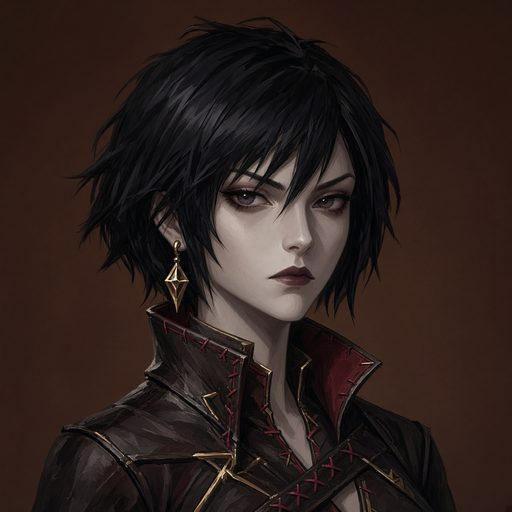
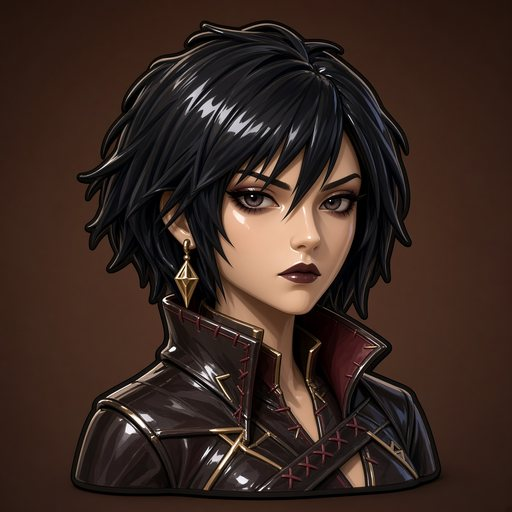
Cartoon hero portraits and glossy monster HP bar

Changed region(s): [[0.0625, 0.0312, 0.9062, 1.0]]

diff --git a/src/components/game-app.tsx b/src/components/game-app.tsx
@@ -514,29 +514,38 @@ function Battle() {
           <Ghost className="size-3 text-soul" />
           {(snap.floor % 10) || 10} / 10
         </p>
-        <div className="h-2.5 w-44 overflow-hidden rounded-full border border-gold/40 bg-bg/80">
-          <div
-            className={cn(
-              "h-full",
-              snap.monsterHp / Math.max(1, snap.monsterMax) > 0.5
-                ? "bg-hp"
-                : snap.monsterHp / Math.max(1, snap.monsterMax) > 0.2
-                  ? "bg-gold"
-                  : "bg-danger",
-            )}
-            style={{ width: `${Math.max(2, (snap.monsterHp / Math.max(1, snap.monsterMax)) * 100)}%` }}
-          />
-        </div>
-        <p className="font-display text-sm tracking-wide text-[#f0e6d8] uppercase">
+        {(() => {
+          const ratio = snap.monsterHp / Math.max(1, snap.monsterMax);
+          const fill =
+            ratio > 0.5
+              ? "from-[#9dff8a] via-[#3dcc4a] to-[#157a28]"
+              : ratio > 0.2
+                ? "from-[#ffe08a] via-[#d4b483] to-[#9a6a18]"
+                : "from-[#ff9a9a] via-[#e04545] to-[#8a1010]";
+          return (
+            <div className="mt-0.5 flex w-[14.5rem] items-center gap-1.5">
+              <img src="/tiles/hud-hp.png" alt="" className="size-7 shrink-0 object-contain" crossOrigin="anonymous" />
+              <div className="relative h-6 flex-1 overflow-hidden rounded-full border-[3px] border-[#f0d48a] bg-[#2a120c] shadow-[0_3px_0_#5a2a12]">
+                <div
+                  className={cn("h-full rounded-full bg-gradient-to-b", fill)}
+                  style={{ width: `${Math.max(6, ratio * 100)}%` }}
+                />
+                <div className="pointer-events-none absolute inset-x-2 top-0.5 h-2 rounded-full bg-white/35" />
+              </div>
+            </div>
+          );
+        })()}
+        <p className="font-display text-sm tracking-wide text-[#f0e6d8] uppercase drop-shadow">
           {snap.monsterName}
           {snap.isBoss ? " · Boss" : ""}
         </p>
-        <p className="text-[11px] text-gold">
+        <p className="font-display text-sm text-gold drop-shadow">
           {formatNum(snap.monsterHp)} / {formatNum(snap.monsterMax)}
         </p>
         {snap.isBoss && snap.bossMaxTime > 0 ? (
-          <div className="h-1.5 w-40 overflow-hidden rounded-full border border-gold/30 bg-bg/70">
-            <div className="h-full bg-accent" style={{ width: `${Math.max(2, (snap.bossTime / snap.bossMaxTime) * 100)}%` }} />
+          <div className="relative h-3 w-40 overflow-hidden rounded-full border-2 border-[#f0d48a] bg-[#2a120c]">
+            <div className="h-full rounded-full bg-gradient-to-b from-[#7ec8ff] via-[#3a8adf] to-[#1a4a9a]" style={{ width: `${Math.max(6, (snap.bossTime / snap.bossMaxTime) * 100)}%` }} />
+            <div className="pointer-events-none absolute inset-x-1 top-px h-1 rounded-full bg-white/35" />
           </div>
         ) : null}
       </div>

diff --git a/src/game/renderer.ts b/src/game/renderer.ts
@@ -1,7 +1,7 @@
 import { drawMonster } from "./draw-creatures";
 import { formatNum } from "./format";
 import type { HeroId, MonsterKind } from "./data";
-import { HEROES } from "./data";
+import { HEROES, heroPortrait } from "./data";
 import type { GameSim } from "./sim";
 import type { SimEvent } from "./types";
 import { sfx } from "./audio";
@@ -82,7 +82,7 @@ export function preloadHuntArt() {
   if (typeof window === "undefined") return;
   for (const h of HEROES) {
     if (!artCache.has(h.id)) {
-      void loadImage(`/portraits/${h.id}.jpg`)
+      void loadImage(heroPortrait(h.id))
         .then((img) => {
           if (!artCache.has(h.id) || !artCache.get(h.id)?.sheet) {
             artCache.set(h.id, { img, sheet: false });
@@ -250,7 +250,7 @@ export class Renderer {
             artCache.set(h.id, art);
           })
           .catch(() =>
-            loadImage(`/portraits/${h.id}.jpg`)
+            loadImage(heroPortrait(h.id))
               .then((img) => {
                 const art = { img, sheet: false };
                 if (!this.sheets.has(h.id)) this.sheets.set(h.id, art);

diff --git a/src/game/data.ts b/src/game/data.ts
@@ -551,7 +551,7 @@ export function biomeFor(floor: number): "crypt" | "frost" | "ember" | "void" | 
 }
 
 export function heroPortrait(id: HeroId): string {
-  return `/portraits/${id}.jpg`;
+  return `/portraits/${id}.jpg?v=3`;
 }
 
 export function heroStars(hero: HeroDef, gilds: number): number {
